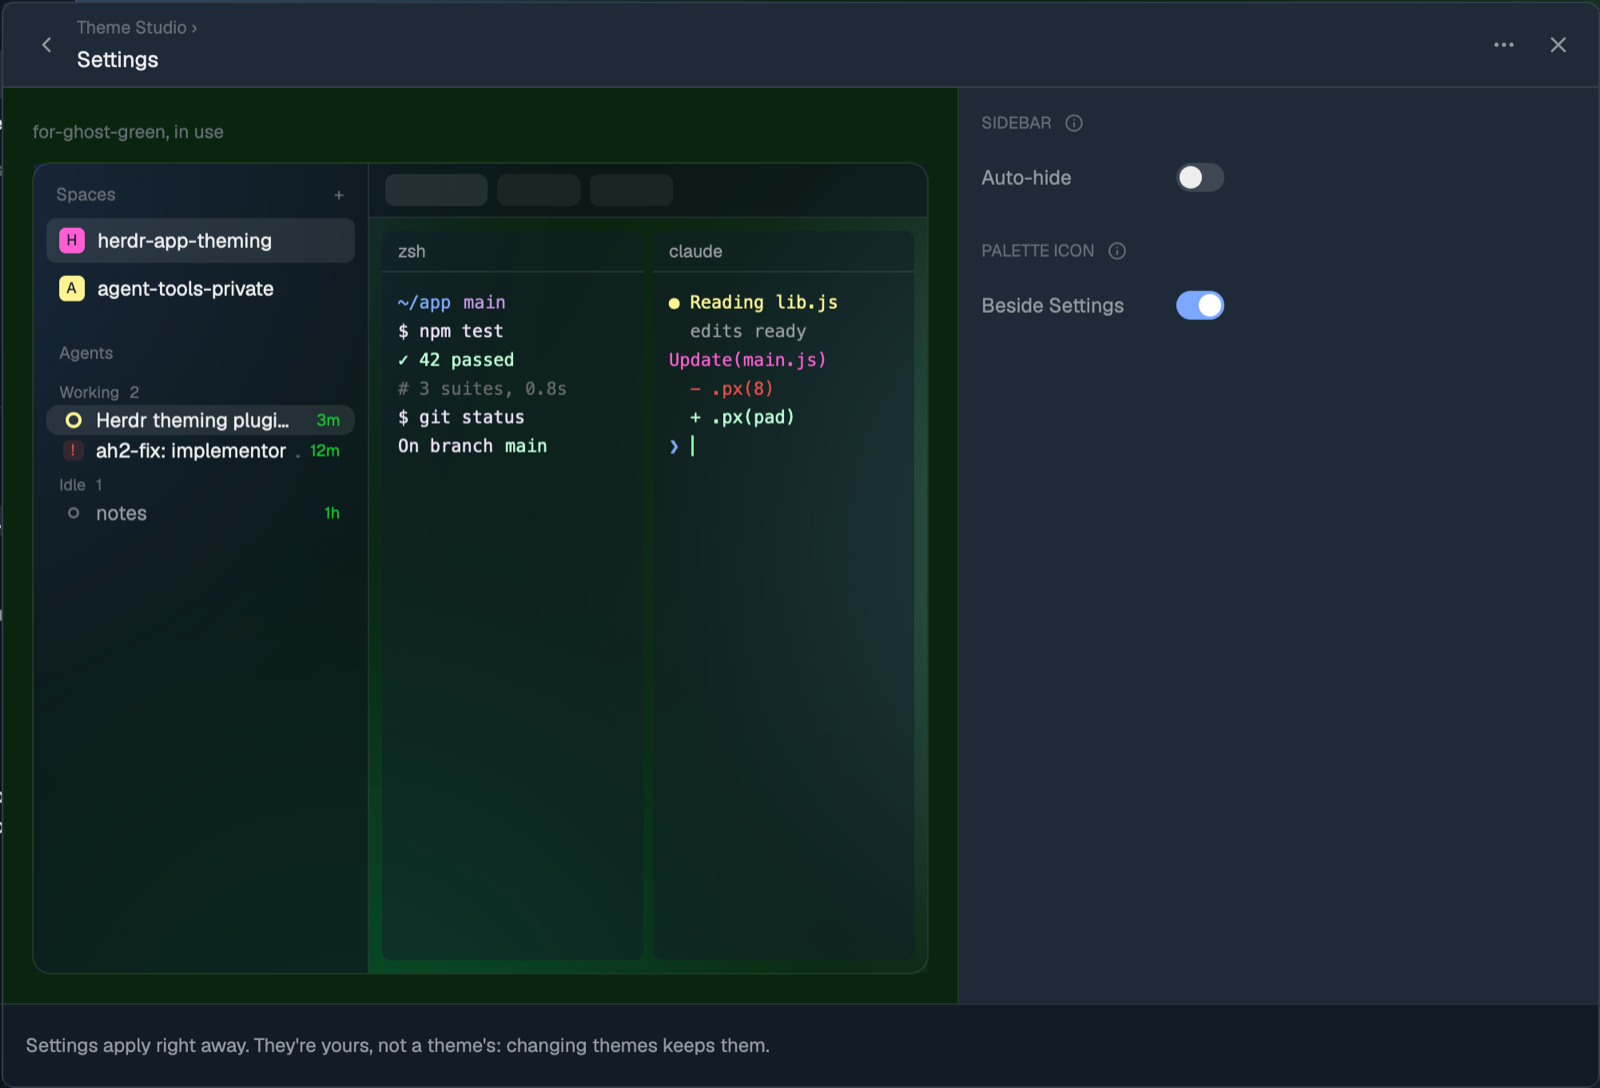
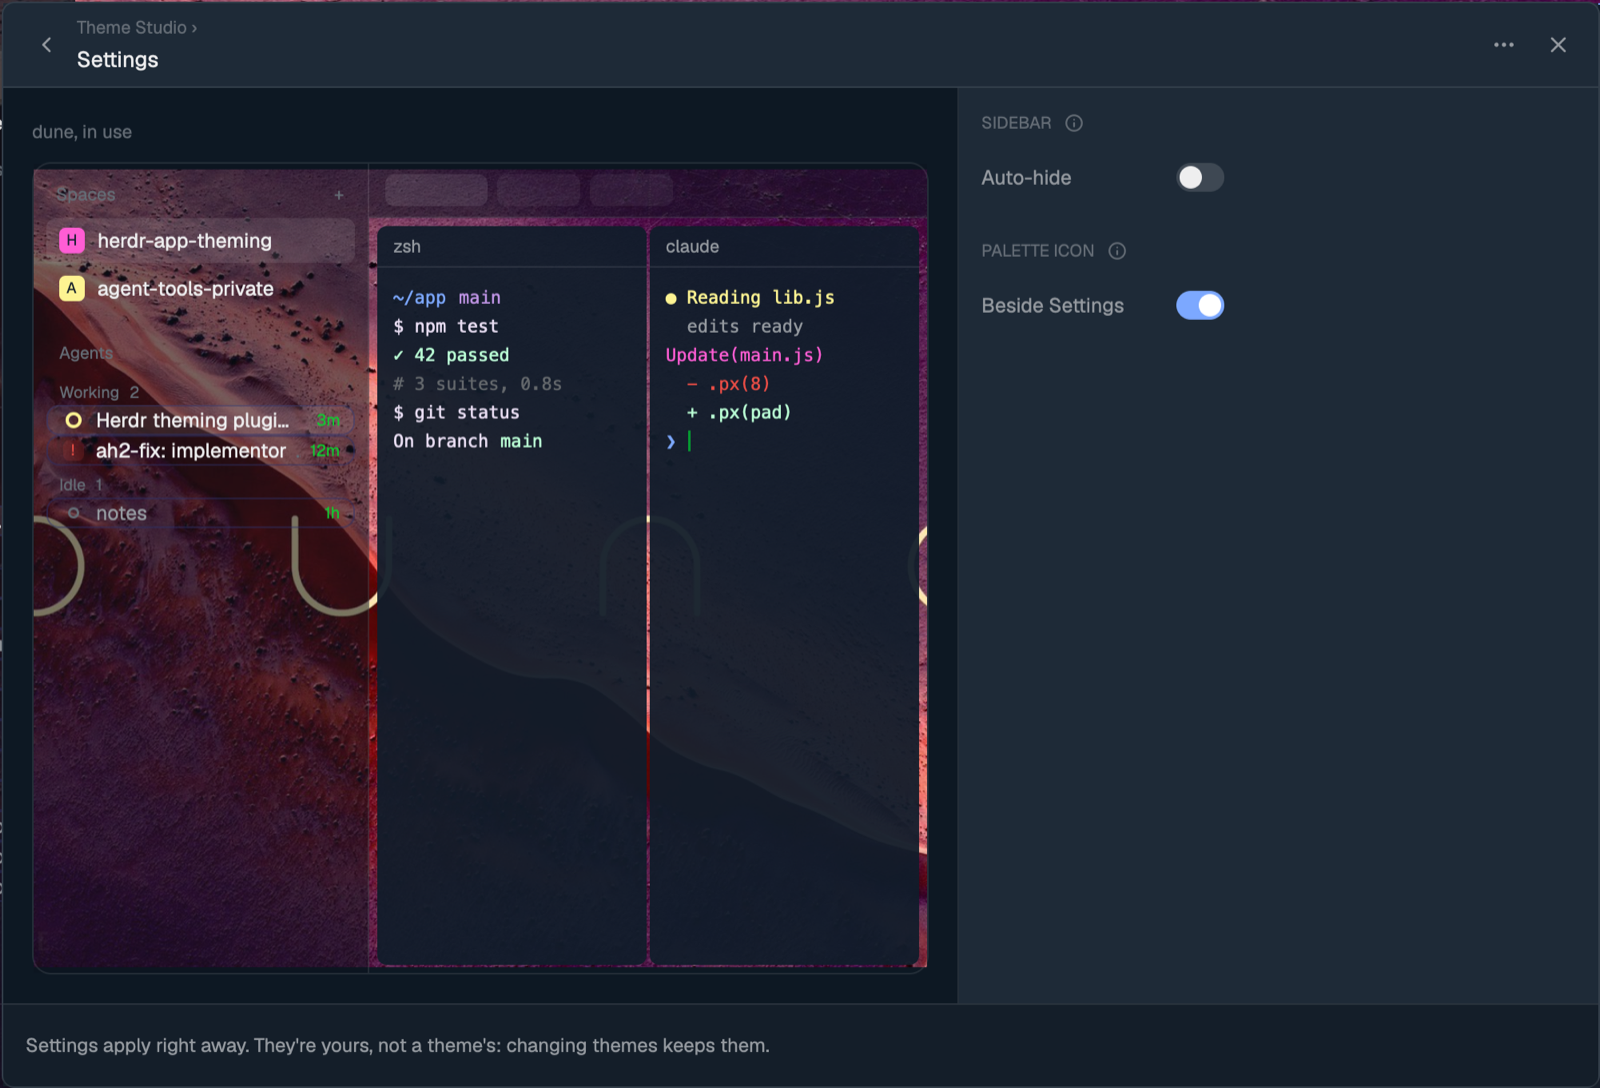
Tour screenshots in dune
Claude-Session: https://claude.ai/code/session_01C6jtLMUvmADjTbxwyPycKJ

Changed region(s): [[0.0, 0.1562, 0.5938, 0.9062], [0.0312, 0.0938, 0.125, 0.125], [0.375, 0.4688, 0.4062, 0.5]]

diff --git a/README.md b/README.md
@@ -56,11 +56,11 @@ that folder and stay. Close and reopen the Studio afterwards.
 
 Every view has the same shape: a big preview of the whole window on the left, the controls on the
 right, and one bar along the bottom that says what's going on and holds the buttons that act on it.
-The screenshots are of for-ghost-green, a custom theme with a green Bloom background.
+The screenshots are of dune, with a picture as its window background.
 
 ### The theme library
 
-![The theme library, with for-ghost-green in use](docs/screenshots/manager.png)
+![The theme library, with dune in use](docs/screenshots/manager.png)
 
 This is what opens. Click a theme to preview it on the left; nothing changes in the real window
 until **Use it**. Search by name, filter to Dark or Light, and the sections run Your themes,
@@ -138,7 +138,7 @@ The sample terminal under the preview shows each pick at once. Herdr rereads `se
 
 #### Glass
 
-![Glass tab, with a Bloom background](docs/screenshots/glass.png)
+![Glass tab, with a picture background](docs/screenshots/glass.png)
 
 | Option | What it changes |
 |---|---|
